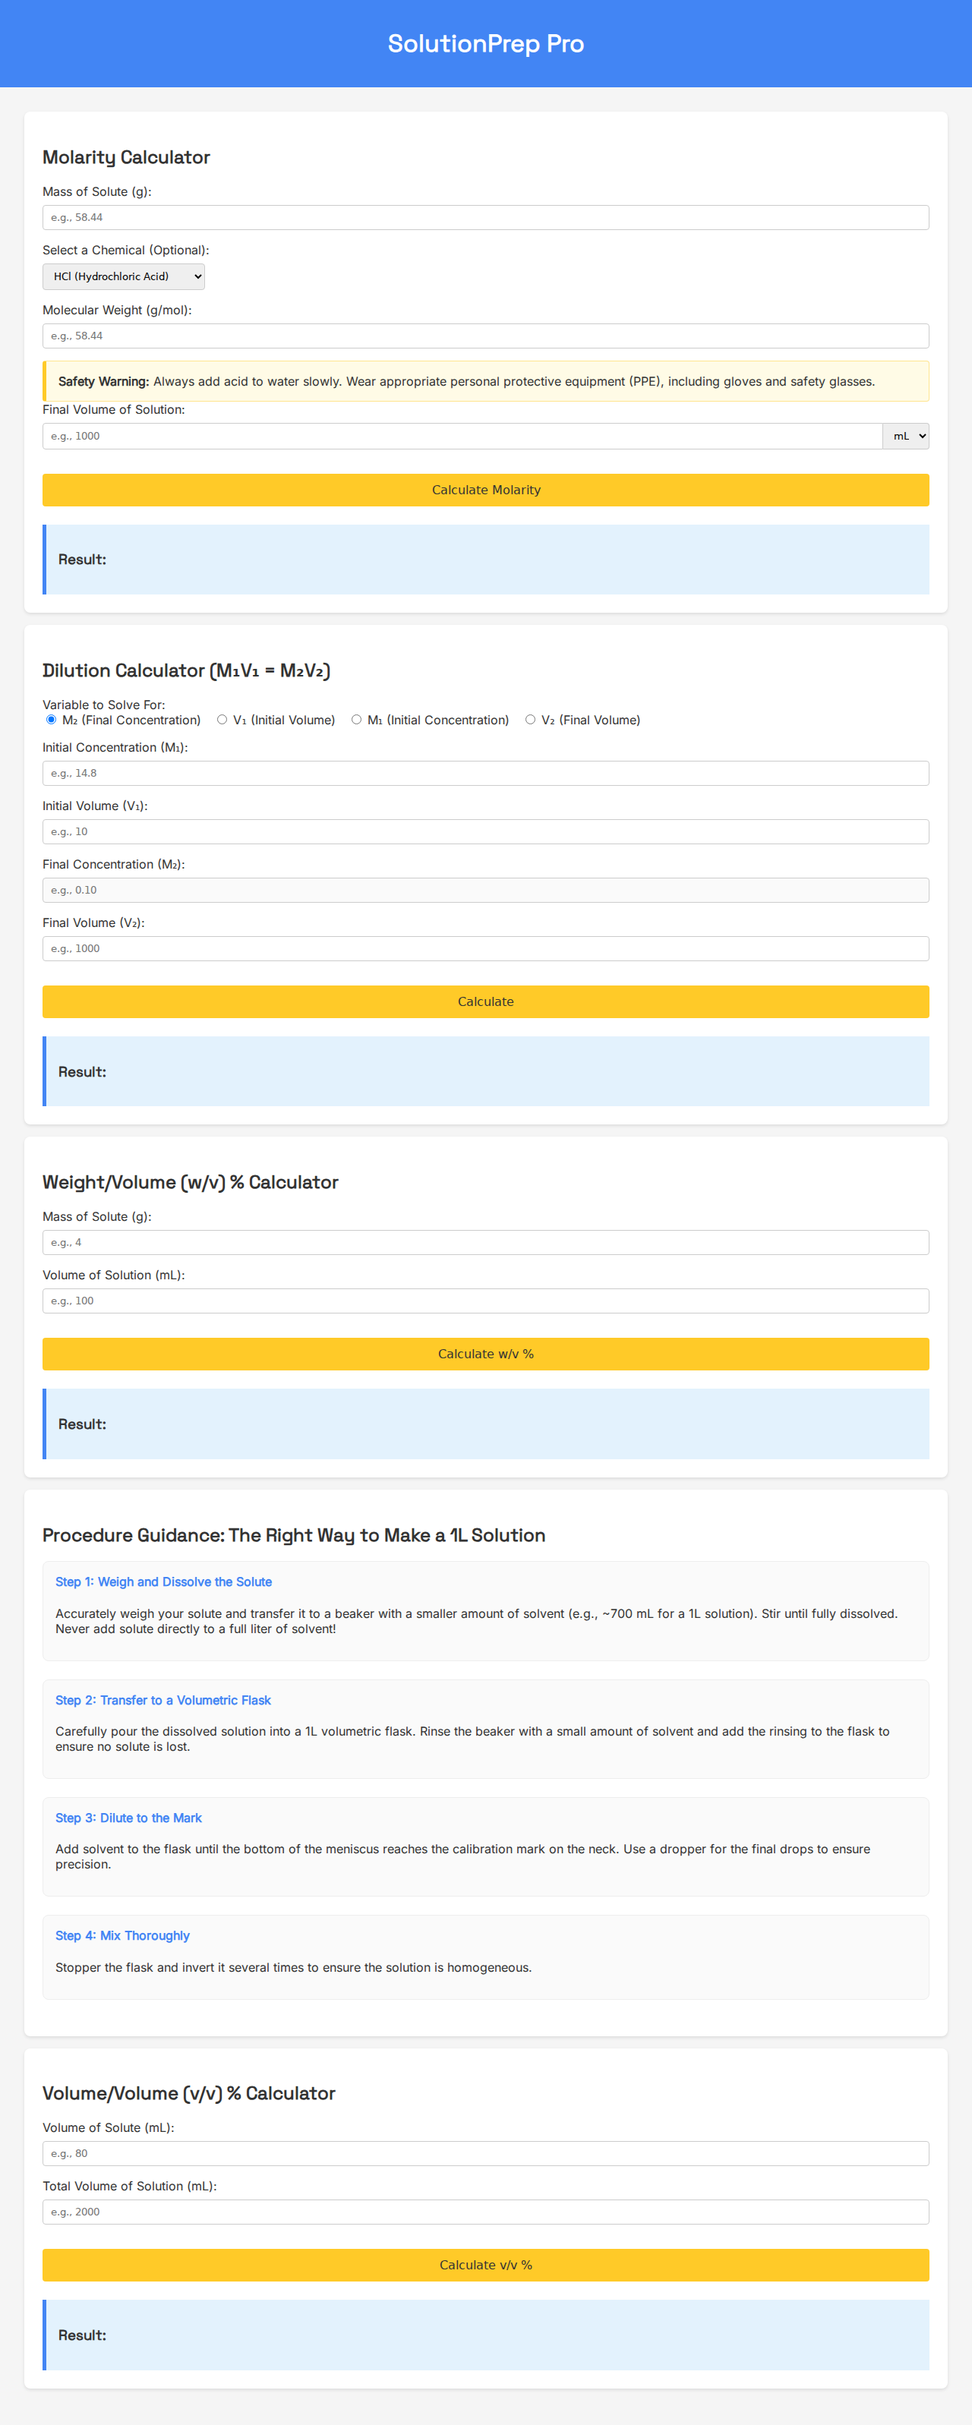
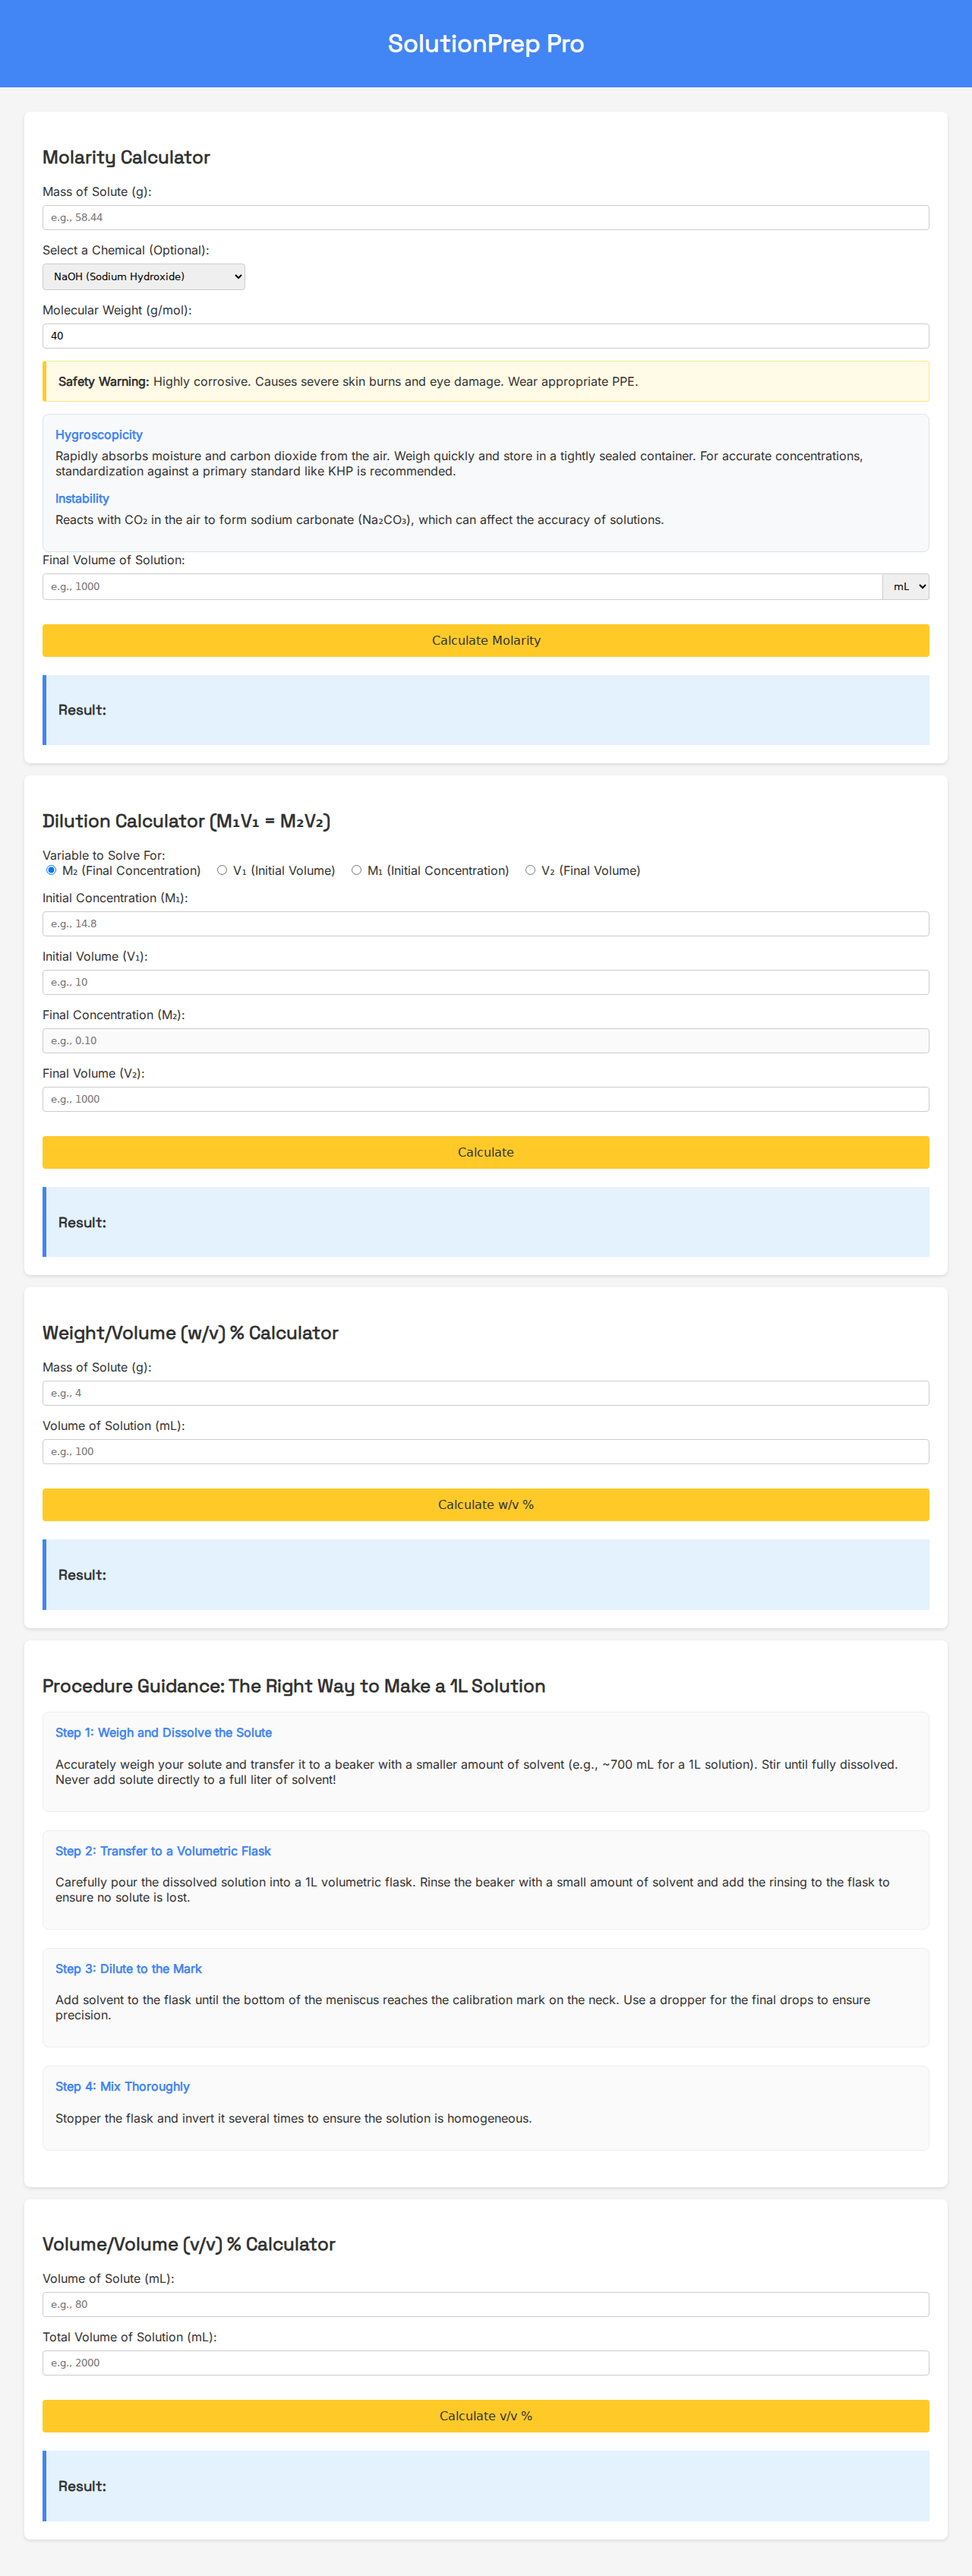
feat: Implement Integrated Chemical Reference Library
This commit introduces a comprehensive chemical reference library into the SolutionPrep Pro application.

Key features implemented:
- A detailed chemical database in `script.js` now stores molecular weights, safety warnings, and nuanced properties like hygroscopicity, instability, and volatility.
- The Molarity Calculator's chemical dropdown now triggers several dynamic UI updates:
  - Auto-fills the molecular weight input.
  - Displays a prominent safety warning.
  - Renders a new section with detailed handling guidance based on the selected chemical's properties.
- The UI has been updated with new chemicals in the dropdown and new sections for displaying the information, styled for clarity and consistency.

This feature significantly enhances the educational value of the application by providing users with critical, reagent-specific information that is essential for accurate and safe lab work. The implementation has been verified with a full-page Playwright screenshot.

diff --git a/script.js b/script.js
@@ -138,23 +138,82 @@ document.addEventListener('DOMContentLoaded', () => {
         });
     }
 
-    const chemicalSelect = document.getElementById('chemical-select');
-    const safetyWarningDiv = document.getElementById('safety-warning');
-
-    const safetyWarnings = {
-        'HCl': '<strong>Safety Warning:</strong> Always add acid to water slowly. Wear appropriate personal protective equipment (PPE), including gloves and safety glasses.',
-        'NaOH': '<strong>Safety Warning:</strong> Sodium hydroxide is hygroscopic and can absorb moisture from the air, affecting its mass. It is also highly corrosive. Handle with care and wear PPE.',
-        'H2O2': '<strong>Safety Warning:</strong> Hydrogen peroxide can decompose when exposed to light or heat. Store in a dark, cool place. Avoid contact with skin and eyes.'
+    const chemicalDatabase = {
+        'HCl': {
+            molecularWeight: 36.46,
+            safetyWarning: '<strong>Safety Warning:</strong> Always add acid to water slowly. Wear appropriate personal protective equipment (PPE), including gloves and safety glasses.',
+            properties: {
+                Volatility: 'Concentrated HCl is volatile. Handle in a well-ventilated area or fume hood to avoid inhaling fumes.'
+            }
+        },
+        'NaOH': {
+            molecularWeight: 40.00,
+            safetyWarning: '<strong>Safety Warning:</strong> Highly corrosive. Causes severe skin burns and eye damage. Wear appropriate PPE.',
+            properties: {
+                Hygroscopicity: 'Rapidly absorbs moisture and carbon dioxide from the air. Weigh quickly and store in a tightly sealed container. For accurate concentrations, standardization against a primary standard like KHP is recommended.',
+                Instability: 'Reacts with CO₂ in the air to form sodium carbonate (Na₂CO₃), which can affect the accuracy of solutions.'
+            }
+        },
+        'H2O2': {
+            molecularWeight: 34.01,
+            safetyWarning: '<strong>Safety Warning:</strong> Strong oxidizer. Avoid contact with skin and eyes. Can cause burns.',
+            properties: {
+                Instability: 'Decomposes when exposed to light, heat, or certain metals. Store in a dark, cool, vented container.'
+            }
+        },
+        'CaCl2': {
+            molecularWeight: 110.98,
+            safetyWarning: '<strong>Safety Warning:</strong> Causes serious eye irritation. Avoid breathing dust.',
+            properties: {
+                Hygroscopicity: 'Extremely hygroscopic. Anhydrous form is a common desiccant. Keep container tightly closed and handle quickly.'
+            }
+        },
+        'KMnO4': {
+            molecularWeight: 158.03,
+            safetyWarning: '<strong>Safety Warning:</strong> Strong oxidizer. Contact with other material may cause fire. Harmful if swallowed.',
+            properties: {
+                Instability: 'Decomposes in the presence of light and organic material. Solutions should be stored in dark amber bottles and are not stable long-term. Often requires standardization before use.'
+            }
+        },
+        'AceticAcid': {
+            molecularWeight: 60.05,
+            safetyWarning: '<strong>Safety Warning:</strong> Flammable liquid and vapor. Causes severe skin burns and eye damage.',
+            properties: {
+                Volatility: 'Glacial acetic acid is highly volatile and has a pungent odor. Use in a fume hood.'
+            }
+        }
     };
+
+    const chemicalSelect = document.getElementById('chemical-select');
+    const molecularWeightInput = document.getElementById('molecular-weight');
+    const safetyWarningDiv = document.getElementById('safety-warning');
+    const chemicalPropertiesDiv = document.getElementById('chemical-properties');
 
     if (chemicalSelect) {
         chemicalSelect.addEventListener('change', () => {
-            const selectedChemical = chemicalSelect.value;
-            if (safetyWarnings[selectedChemical]) {
-                safetyWarningDiv.innerHTML = safetyWarnings[selectedChemical];
+            const selectedChemicalKey = chemicalSelect.value;
+            const chemicalData = chemicalDatabase[selectedChemicalKey];
+
+            if (chemicalData) {
+                // Auto-fill molecular weight
+                molecularWeightInput.value = chemicalData.molecularWeight;
+
+                // Display safety warning
+                safetyWarningDiv.innerHTML = chemicalData.safetyWarning;
                 safetyWarningDiv.style.display = 'block';
+
+                // Display chemical properties
+                let propertiesHtml = '';
+                for (const property in chemicalData.properties) {
+                    propertiesHtml += `<h4>${property}</h4><p>${chemicalData.properties[property]}</p>`;
+                }
+                chemicalPropertiesDiv.innerHTML = propertiesHtml;
+                chemicalPropertiesDiv.style.display = 'block';
             } else {
+                // Reset and hide everything if no chemical is selected
+                molecularWeightInput.value = '';
                 safetyWarningDiv.style.display = 'none';
+                chemicalPropertiesDiv.style.display = 'none';
             }
         });
     }

diff --git a/index.html b/index.html
@@ -27,6 +27,9 @@
                     <option value="HCl">HCl (Hydrochloric Acid)</option>
                     <option value="NaOH">NaOH (Sodium Hydroxide)</option>
                     <option value="H2O2">H₂O₂ (Hydrogen Peroxide)</option>
+                    <option value="CaCl2">CaCl₂ (Calcium Chloride)</option>
+                    <option value="KMnO4">KMnO₄ (Potassium Permanganate)</option>
+                    <option value="AceticAcid">Acetic Acid</option>
                 </select>
             </div>
             <div class="input-group">
@@ -34,6 +37,7 @@
                 <input type="number" id="molecular-weight" placeholder="e.g., 58.44">
             </div>
             <div id="safety-warning" class="warning" style="display: none;"></div>
+            <div id="chemical-properties" class="chemical-info" style="display: none;"></div>
             <div class="input-group">
                 <label for="solution-volume">Final Volume of Solution:</label>
                 <div class="input-with-unit">

diff --git a/style.css b/style.css
@@ -96,6 +96,25 @@ button:hover {
     border-radius: 4px;
 }
 
+/* Chemical Properties Info */
+.chemical-info {
+    margin-top: 1rem;
+    padding: 1rem;
+    background-color: #f8f9fa;
+    border: 1px solid #dee2e6;
+    border-radius: 8px;
+}
+
+.chemical-info h4 {
+    margin-top: 0;
+    color: var(--primary-color);
+    margin-bottom: 0.5rem;
+}
+
+.chemical-info p {
+    margin-top: 0;
+}
+
 /* Icons */
 .icon {
     margin-right: 0.5rem;

diff --git a/jules-scratch/verification/verify_chemical_library.py b/jules-scratch/verification/verify_chemical_library.py
@@ -1,0 +1,56 @@
+import os
+from playwright.sync_api import sync_playwright, expect
+
+def run_verification():
+    with sync_playwright() as p:
+        browser = p.chromium.launch()
+        page = browser.new_page()
+
+        file_path = os.path.abspath('index.html')
+        page.goto(f'file://{file_path}')
+
+        # --- Test Chemical Reference Library ---
+        molecular_weight_input = page.locator('#molecular-weight')
+        safety_warning_div = page.locator('#safety-warning')
+        chemical_properties_div = page.locator('#chemical-properties')
+
+        # Test NaOH
+        page.select_option('#chemical-select', 'NaOH')
+        expect(molecular_weight_input).to_have_value('40')
+        expect(safety_warning_div).to_be_visible()
+        expect(safety_warning_div).to_contain_text('Highly corrosive')
+        expect(chemical_properties_div).to_be_visible()
+        expect(chemical_properties_div).to_contain_text('Hygroscopicity')
+
+        # Test KMnO4
+        page.select_option('#chemical-select', 'KMnO4')
+        expect(molecular_weight_input).to_have_value('158.03')
+        expect(safety_warning_div).to_be_visible()
+        expect(safety_warning_div).to_contain_text('Strong oxidizer')
+        expect(chemical_properties_div).to_be_visible()
+        expect(chemical_properties_div).to_contain_text('Instability')
+
+        # Test Acetic Acid
+        page.select_option('#chemical-select', 'AceticAcid')
+        expect(molecular_weight_input).to_have_value('60.05')
+        expect(safety_warning_div).to_be_visible()
+        expect(safety_warning_div).to_contain_text('Flammable liquid')
+        expect(chemical_properties_div).to_be_visible()
+        expect(chemical_properties_div).to_contain_text('Volatility')
+
+        # Test hiding the sections
+        page.select_option('#chemical-select', '')
+        expect(molecular_weight_input).to_have_value('')
+        expect(safety_warning_div).to_be_hidden()
+        expect(chemical_properties_div).to_be_hidden()
+
+        # Re-select one to have it visible in the screenshot
+        page.select_option('#chemical-select', 'NaOH')
+
+        # Take a full page screenshot
+        page.screenshot(path='jules-scratch/verification/verification.png', full_page=True)
+
+        browser.close()
+
+if __name__ == "__main__":
+    run_verification()
